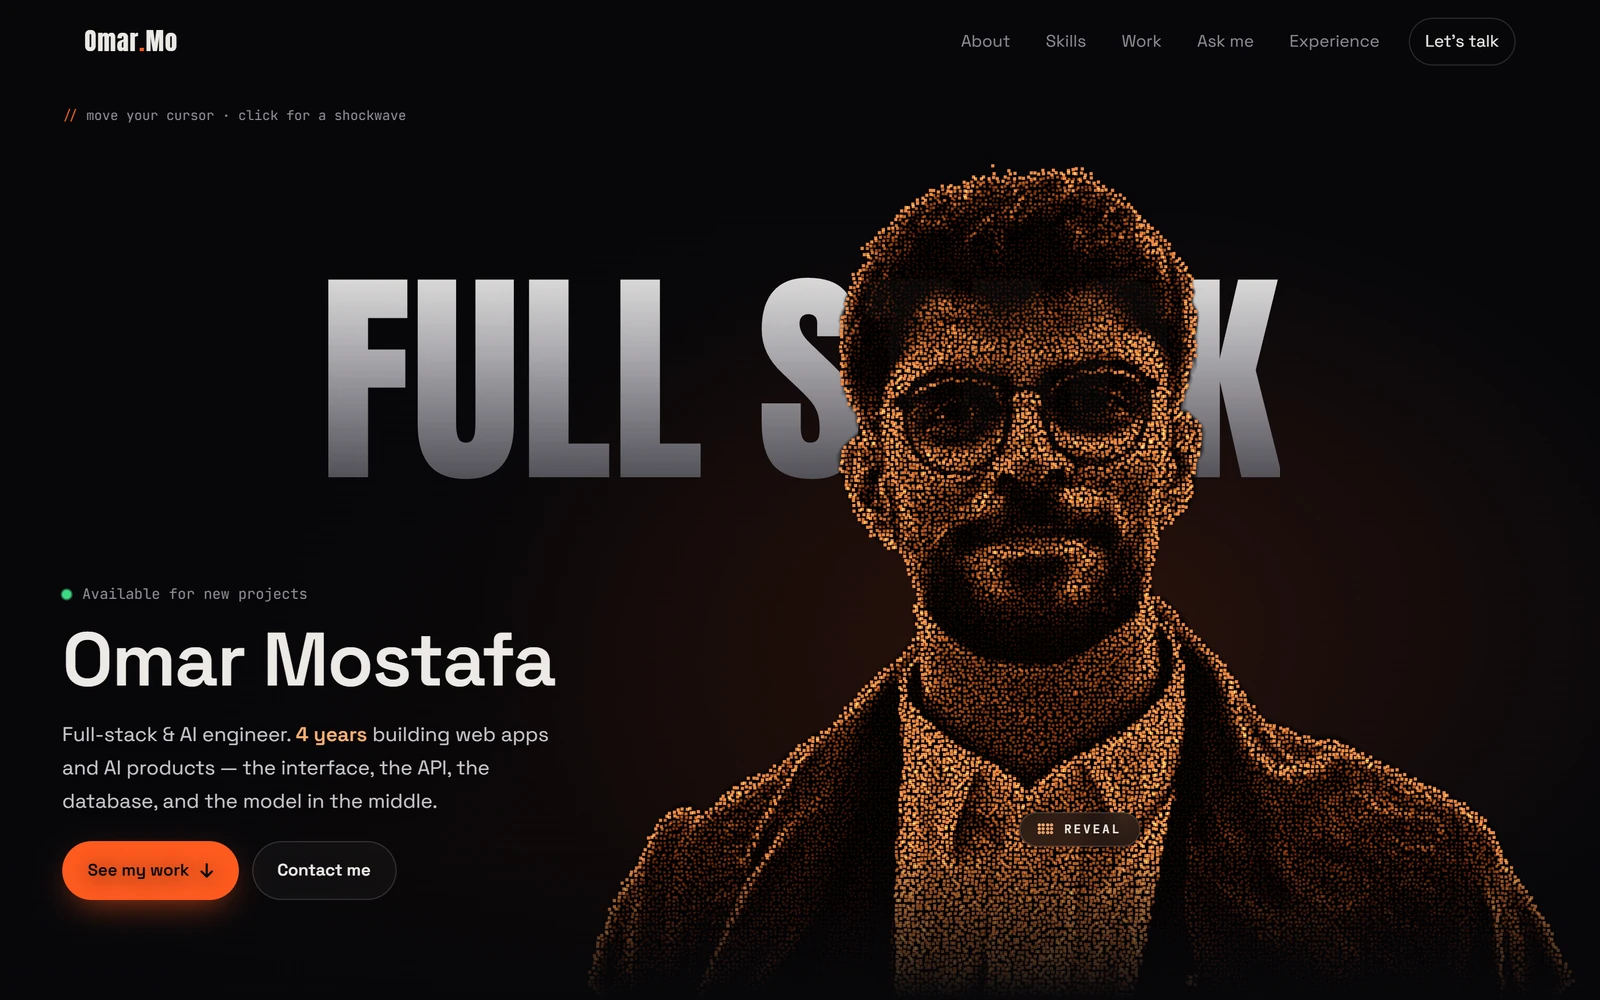
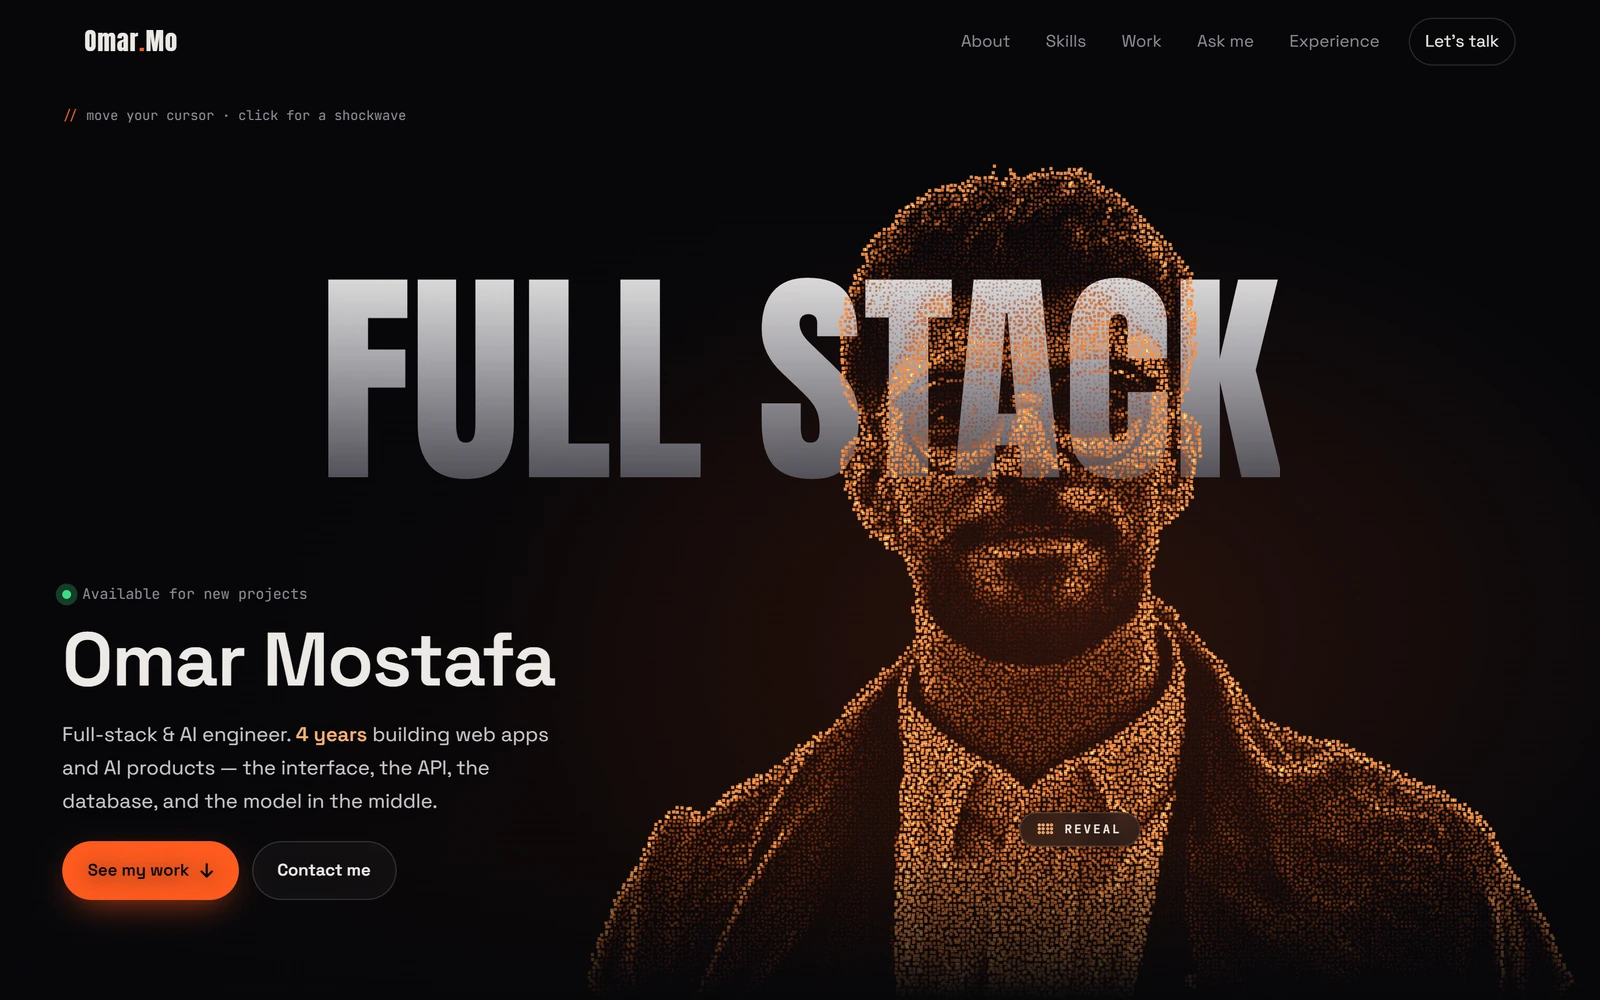
Hero: transparent background behind the particle portrait
Remove the black silhouette layer behind the dots, so the portrait floats on
the page background (and hovering no longer reveals black patches).

Changed region(s): [[0.375, 0.155, 0.9688, 0.992], [0.0312, 0.589, 0.0625, 0.62]]

diff --git a/js/hero.js b/js/hero.js
@@ -13,7 +13,6 @@
 
   const ctx = canvas.getContext("2d");
   const photo = document.getElementById("hero-photo");
-  const shadow = document.getElementById("hero-shadow");
   const revealBtn = document.getElementById("reveal-btn");
   const hint = document.getElementById("hero-hint");
   const reduceMotion = matchMedia("(prefers-reduced-motion: reduce)").matches;
@@ -97,9 +96,7 @@
       hx[i] = (box.x + (gx[i] + 0.5) * scale) * dpr;
       hy[i] = (box.y + (gy[i] + 0.5) * scale) * dpr;
     }
-    for (const el of [photo, shadow]) {
-      Object.assign(el.style, { left: box.x + "px", top: box.y + "px", width: box.w + "px", height: box.h + "px" });
-    }
+    Object.assign(photo.style, { left: box.x + "px", top: box.y + "px", width: box.w + "px", height: box.h + "px" });
     revealBtn.style.left = box.x + box.w / 2 + "px";
     revealBtn.style.top = Math.min(box.y + box.h * 0.78, H - 70) + "px";
   }

diff --git a/css/main.css b/css/main.css
@@ -121,9 +121,7 @@ p { margin: 0 0 1em; }
   opacity: 0; transform: scale(1.06); transition: opacity 1.2s ease .2s, transform 1.6s cubic-bezier(.2, .7, .2, 1) .2s;
 }
 .is-live #hero-word { opacity: .92; transform: none; }
-.hero-shadow, .hero-photo { position: absolute; pointer-events: none; object-fit: contain; }
-.hero-shadow { z-index: 2; filter: brightness(0); opacity: 0; transition: opacity 1.4s ease 1s; }
-.is-live .hero-shadow { opacity: .96; }
+.hero-photo { position: absolute; pointer-events: none; object-fit: contain; }
 #hero-canvas { position: absolute; inset: 0; z-index: 3; }
 .hero-photo { z-index: 4; opacity: 0; }
 

diff --git a/index.html b/index.html
@@ -47,7 +47,6 @@
     <section class="hero" id="hero">
       <div class="hero-stage" id="hero-stage">
         <div class="hero-word" aria-hidden="true"><span id="hero-word">DEVELOPER</span></div>
-        <img class="hero-shadow" id="hero-shadow" src="assets/img/omar-cutout.webp" alt="" aria-hidden="true">
         <canvas id="hero-canvas" role="img" aria-label="Portrait of Omar Mostafa drawn with glowing dots"></canvas>
         <img class="hero-photo" id="hero-photo" src="assets/img/omar-cutout.webp" alt="Omar Mostafa">
         <button class="reveal-btn" id="reveal-btn" aria-pressed="false">
